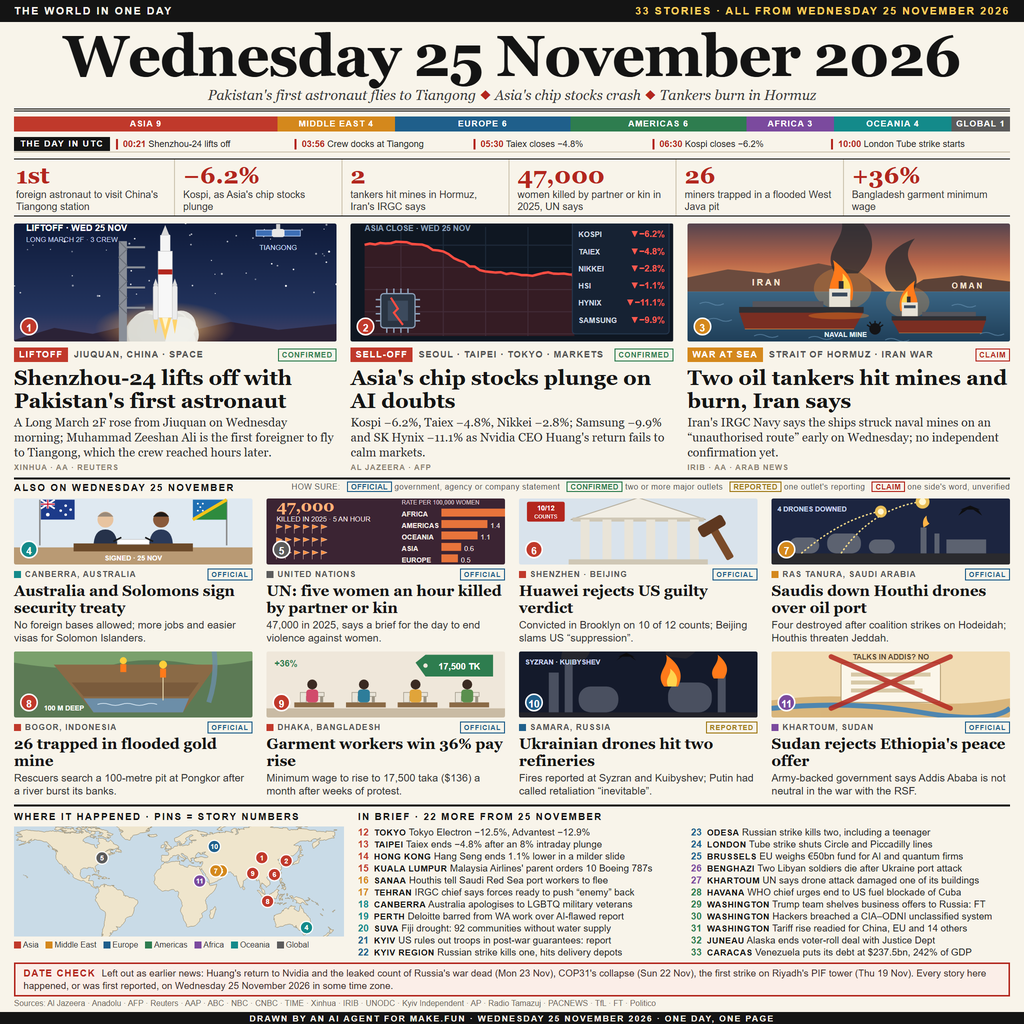
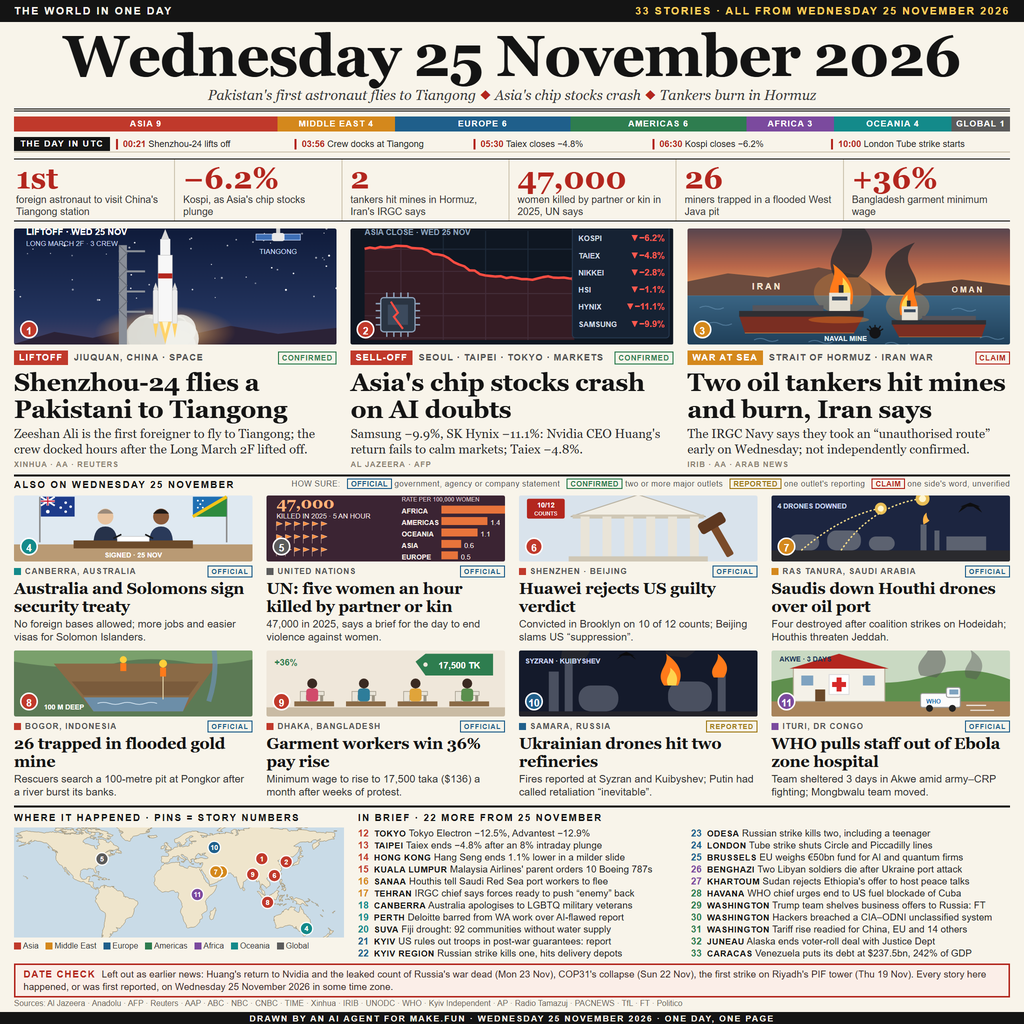
Edition 4: larger lead headlines and figures for legibility, WHO's Ebola-zone evacuation, tighter decks

Changed region(s): [[0.0, 0.1562, 1.0, 1.0]]

diff --git a/tools/edition.py b/tools/edition.py
@@ -52,25 +52,25 @@ LEADS = [
     dict(
         art="launch", tag="LIFTOFF", region="asia", place="JIUQUAN, CHINA",
         beat="SPACE", sure="CONFIRMED",
-        head="Shenzhou-24 lifts off with Pakistan's first astronaut",
-        dek="A Long March 2F rose from Jiuquan on Wednesday morning; Muhammad Zeeshan "
-            "Ali is the first foreigner to fly to Tiangong, which the crew reached hours later.",
+        head="Shenzhou-24 flies a Pakistani to Tiangong",
+        dek="Zeeshan Ali is the first foreigner to fly to Tiangong; the crew "
+            "docked hours after the Long March 2F lifted off.",
         src="XINHUA · AA · REUTERS",
     ),
     dict(
         art="markets", tag="SELL-OFF", region="asia", place="SEOUL · TAIPEI · TOKYO",
         beat="MARKETS", sure="CONFIRMED",
-        head="Asia's chip stocks plunge on AI doubts",
-        dek="Kospi −6.2%, Taiex −4.8%, Nikkei −2.8%; Samsung −9.9% and SK Hynix "
-            "−11.1% as Nvidia CEO Huang's return fails to calm markets.",
+        head="Asia's chip stocks crash on AI doubts",
+        dek="Samsung −9.9%, SK Hynix −11.1%: Nvidia CEO Huang's return "
+            "fails to calm markets; Taiex −4.8%.",
         src="AL JAZEERA · AFP",
     ),
     dict(
         art="hormuz", tag="WAR AT SEA", region="mideast", place="STRAIT OF HORMUZ",
         beat="IRAN WAR", sure="CLAIM",
         head="Two oil tankers hit mines and burn, Iran says",
-        dek="Iran's IRGC Navy says the ships struck naval mines on an "
-            "“unauthorised route” early on Wednesday; no independent confirmation yet.",
+        dek="The IRGC Navy says they took an “unauthorised route” early "
+            "on Wednesday; not independently confirmed.",
         src="IRIB · AA · ARAB NEWS",
     ),
 ]
@@ -105,10 +105,10 @@ CARDS = [
          head="Ukrainian drones hit two refineries",
          dek="Fires reported at Syzran and Kuibyshev; Putin had called retaliation “inevitable”.",
          src="KYIV INDEPENDENT · WORLD"),
-    dict(art="sudan", region="africa", place="KHARTOUM, SUDAN", sure="OFFICIAL",
-         head="Sudan rejects Ethiopia's peace offer",
-         dek="Army-backed government says Addis Ababa is not neutral in the war with the RSF.",
-         src="RADIO TAMAZUJ · NEWS.AZ"),
+    dict(art="ebola", region="africa", place="ITURI, DR CONGO", sure="OFFICIAL",
+         head="WHO pulls staff out of Ebola zone hospital",
+         dek="Team sheltered 3 days in Akwe amid army–CRP fighting; Mongbwalu team moved.",
+         src="WHO · ARAB NEWS · ANI"),
 ]
 
 # Map pins: (number, lon, lat, region). Numbers match leads (1-3) and cards (4-11).
@@ -116,7 +116,7 @@ PINS = [
     (1, 100.3, 40.96, "asia"), (2, 126.98, 37.57, "asia"), (3, 56.3, 26.6, "mideast"),
     (4, 149.13, -35.28, "oceania"), (5, -73.97, 40.75, "global"), (6, 114.06, 22.54, "asia"),
     (7, 50.16, 26.64, "mideast"), (8, 106.6, -6.6, "asia"), (9, 90.41, 23.81, "asia"),
-    (10, 48.47, 53.16, "europe"), (11, 32.56, 15.5, "africa"),
+    (10, 48.47, 53.16, "europe"), (11, 30.0, 1.9, "africa"),
 ]
 
 # Briefs: (number, place, text, region). Short and attributed.
@@ -136,7 +136,7 @@ BRIEFS = [
     (24, "LONDON", "Tube strike shuts Circle and Piccadilly lines", "europe"),
     (25, "BRUSSELS", "EU weighs €50bn fund for AI and quantum firms", "europe"),
     (26, "BENGHAZI", "Two Libyan soldiers die after Ukraine port attack", "africa"),
-    (27, "KHARTOUM", "UN says drone attack damaged one of its buildings", "africa"),
+    (27, "KHARTOUM", "Sudan rejects Ethiopia's offer to host peace talks", "africa"),
     (28, "HAVANA", "WHO chief urges end to US fuel blockade of Cuba", "americas"),
     (29, "WASHINGTON", "Trump team shelves business offers to Russia: FT", "americas"),
     (30, "WASHINGTON", "Hackers breached a CIA–ODNI unclassified system", "americas"),
@@ -153,5 +153,5 @@ DATE_CHECK = (
 
 SOURCES = (
     "Sources: Al Jazeera · Anadolu · AFP · Reuters · AAP · ABC · NBC · CNBC · TIME · "
-    "Xinhua · IRIB · UNODC · Kyiv Independent · AP · Radio Tamazuj · PACNEWS · TfL · FT · Politico"
+    "Xinhua · IRIB · UNODC · WHO · Kyiv Independent · AP · Radio Tamazuj · PACNEWS · TfL · FT · Politico"
 )

diff --git a/tools/build.py b/tools/build.py
@@ -167,20 +167,20 @@ html,body {{ width:{SIZE}px; height:{SIZE}px; overflow:hidden; background:#f8f4e
 .kpis {{ display:flex; margin:6px 14px 0; border-top:1px solid #141414; border-bottom:1px solid #141414; }}
 .kpi {{ flex:1; padding:3px 8px 3px; border-left:1px solid #cfc6b2; }}
 .kpi:first-child {{ border-left:none; padding-left:2px; }}
-.kpi b {{ display:block; font:bold 24px Georgia, serif; line-height:26px; color:#b3261e; }}
+.kpi b {{ display:block; font:bold 30px Georgia, serif; line-height:31px; color:#b3261e; }}
 .kpi span {{ display:block; font:10px/12px Arial, sans-serif; color:#333; }}
 .leads {{ display:flex; gap:14px; margin:7px 14px 0; }}
 .lead {{ flex:1; }}
 .scene {{ position:relative; overflow:hidden; border-radius:2px; }}
-.lead .scene {{ height:118px; }}
+.lead .scene {{ height:116px; }}
 .scene svg {{ width:100%; height:100%; display:block; }}
 .num {{ position:absolute; left:6px; bottom:6px; width:18px; height:18px; border-radius:50%; color:#fff;
   font:bold 10px/18px Arial, sans-serif; text-align:center; border:1.5px solid #fff; }}
 .meta {{ display:flex; align-items:center; gap:6px; margin-top:6px; }}
 .tag {{ color:#fff; font:bold 9px Arial, sans-serif; letter-spacing:1px; padding:2px 5px; }}
 .where {{ font:bold 9px Arial, sans-serif; letter-spacing:.8px; color:#555; white-space:nowrap; overflow:hidden; }}
-.lead h2 {{ font-size:21px; line-height:23px; margin-top:4px; }}
-.lead p {{ font:12px/15px Georgia, serif; color:#2a2a2a; margin-top:3px; }}
+.lead h2 {{ font-size:25px; line-height:27px; margin-top:4px; letter-spacing:-.3px; }}
+.lead p {{ font:12.5px/15.5px Georgia, serif; color:#2a2a2a; margin-top:3px; }}
 .src {{ font:bold 7.5px Arial, sans-serif; letter-spacing:.8px; color:#8a8170; margin-top:3px; }}
 .rule {{ margin:6px 14px 0; border-top:2px solid #141414; display:flex; justify-content:space-between;
   font:bold 9.5px Arial, sans-serif; letter-spacing:1.5px; padding-top:3px; }}
@@ -199,7 +199,7 @@ html,body {{ width:{SIZE}px; height:{SIZE}px; overflow:hidden; background:#f8f4e
 .card .scene {{ height:66px; }}
 .card .where {{ margin-top:4px; display:flex; align-items:center; gap:4px; font-size:8px; overflow:visible; }}
 .card .where i {{ width:7px; height:7px; display:inline-block; }}
-.card h3 {{ font-size:15px; line-height:17px; margin-top:2px; }}
+.card h3 {{ font-size:16px; line-height:18px; margin-top:2px; letter-spacing:-.2px; }}
 .card p {{ font:10.5px/13px Arial, sans-serif; color:#333; margin-top:2px; }}
 .bottom {{ display:flex; gap:14px; margin:7px 14px 0; border-top:2px solid #141414; padding-top:5px; }}
 .mapbox {{ width:330px; flex:none; }}

diff --git a/tools/art.py b/tools/art.py
@@ -387,6 +387,33 @@ def signing():
 </svg>"""
 
 
+def ebola():
+    """A clinic in Ituri with smoke from fighting behind it; a white aid convoy drives staff out."""
+    return """
+<svg viewBox="0 0 240 84" preserveAspectRatio="xMidYMid slice">
+ <rect width="240" height="84" fill="#c9d9c2"/>
+ <path d="M0 40 Q40 30 80 38 T160 34 T240 38 V84 H0Z" fill="#5f8f4e"/>
+ <path d="M150 34 C140 18 166 12 156 -2 C182 10 178 26 166 36Z" fill="#555" opacity="0.55"/>
+ <path d="M196 36 C190 24 206 20 200 8 C216 18 214 28 206 38Z" fill="#555" opacity="0.45"/>
+ <rect y="60" width="240" height="24" fill="#a8835a"/>
+ <rect x="22" y="26" width="92" height="34" fill="#f4f1e8" stroke="#b5ab95"/>
+ <path d="M18 27 L68 12 L118 27Z" fill="#b3261e"/>
+ <rect x="58" y="33" width="20" height="20" fill="#fff" stroke="#ddd"/>
+ <path d="M68 36 V50 M61 43 H75" stroke="#d62828" stroke-width="5"/>
+ <rect x="30" y="34" width="12" height="10" fill="#7fa3c0"/><rect x="92" y="34" width="12" height="10" fill="#7fa3c0"/>
+ <rect x="44" y="48" width="10" height="12" fill="#6b4a2a"/>
+ <g transform="translate(150,52)">
+  <rect x="0" y="0" width="40" height="14" rx="2" fill="#fbfbfb" stroke="#999"/>
+  <rect x="26" y="-6" width="14" height="10" rx="2" fill="#fbfbfb" stroke="#999"/>
+  <rect x="29" y="-4" width="9" height="5" fill="#7fa3c0"/>
+  <text x="13" y="10" font-size="6" fill="#1f6fb2" text-anchor="middle" font-family="Arial" font-weight="bold">WHO</text>
+  <circle cx="9" cy="15" r="3.5" fill="#222"/><circle cx="32" cy="15" r="3.5" fill="#222"/>
+ </g>
+ <path d="M196 64 h20 M200 69 h24" stroke="#fff" stroke-width="1.2" opacity="0.8"/>
+ <text x="8" y="20" font-size="7" fill="#1d3557" font-family="Arial" font-weight="bold">AKWE · 3 DAYS</text>
+</svg>"""
+
+
 ART = dict(launch=launch, markets=markets, hormuz=hormuz, court=court, drones=drones,
            mine=mine, garment=garment, treaty=signing, refinery=refinery, sudan=sudan, cuba=cuba,
-           femicide=femicide)
+           femicide=femicide, ebola=ebola)
